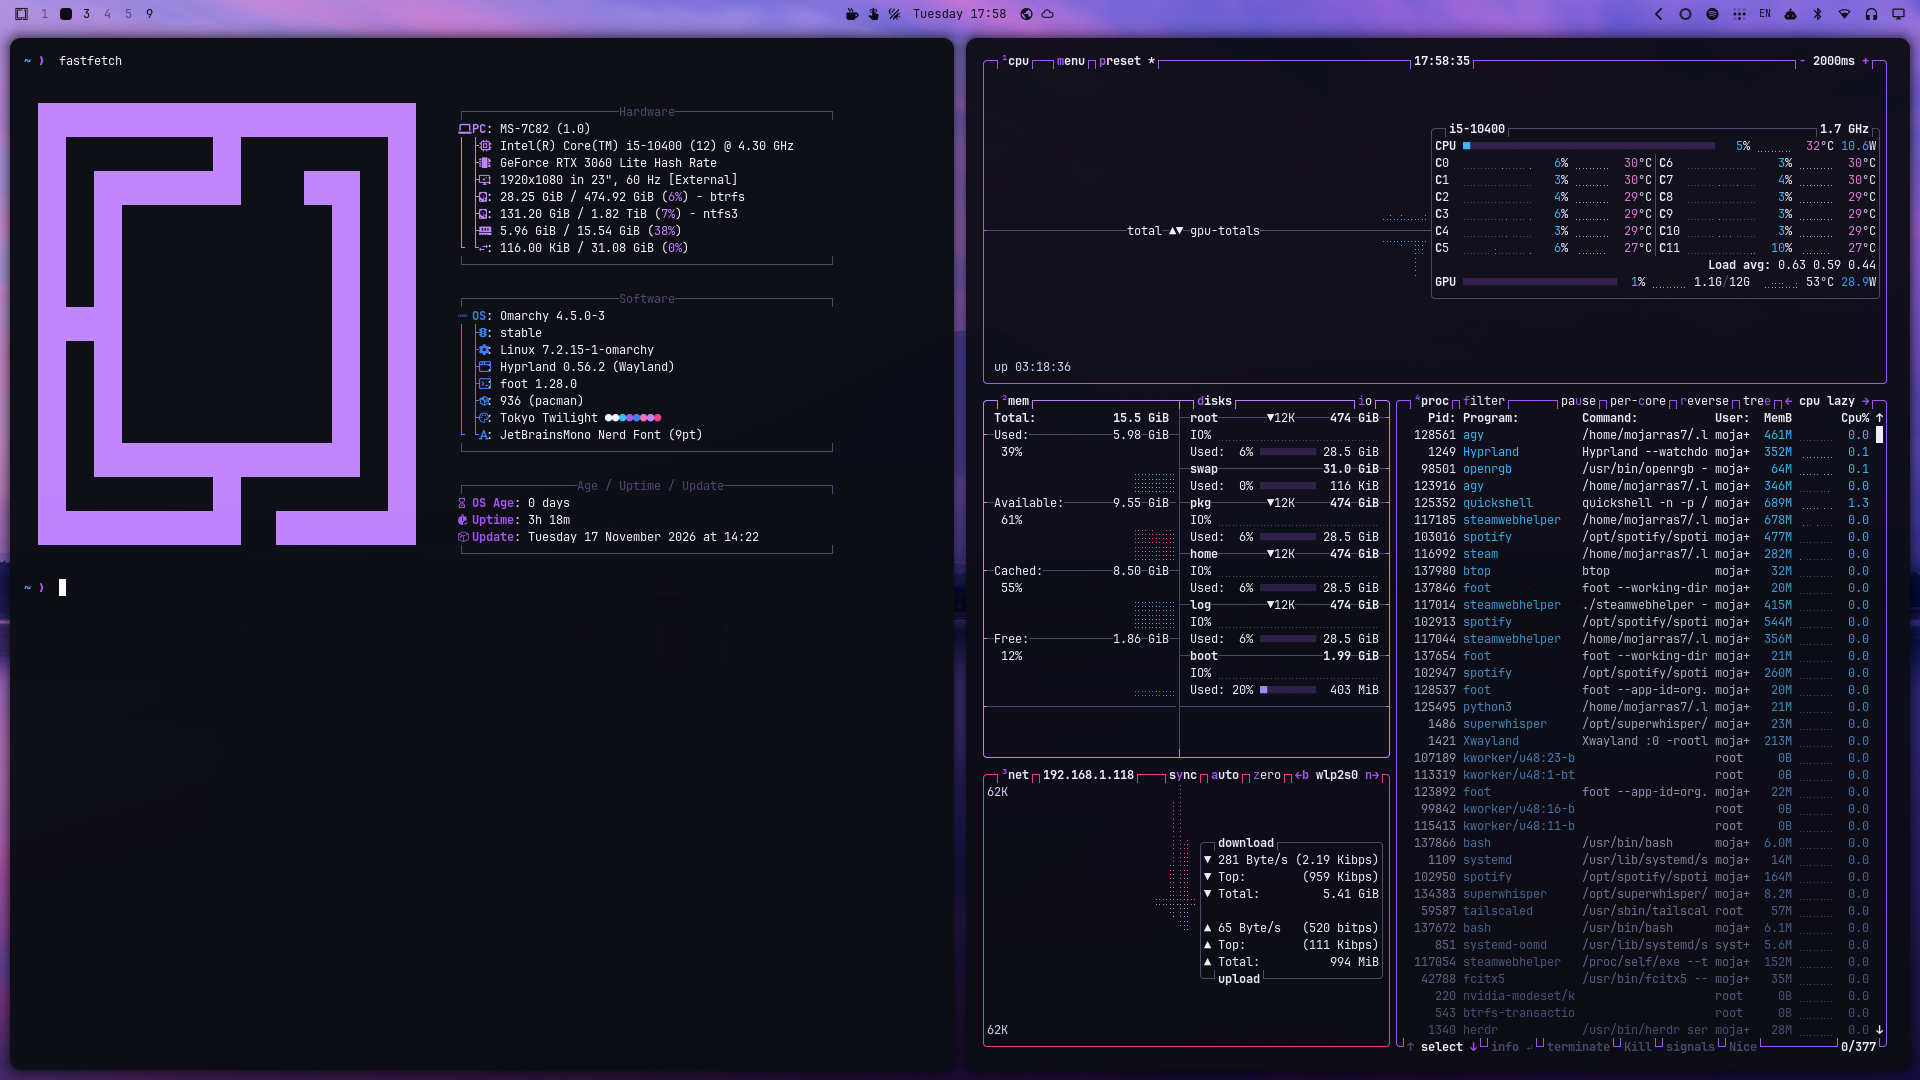
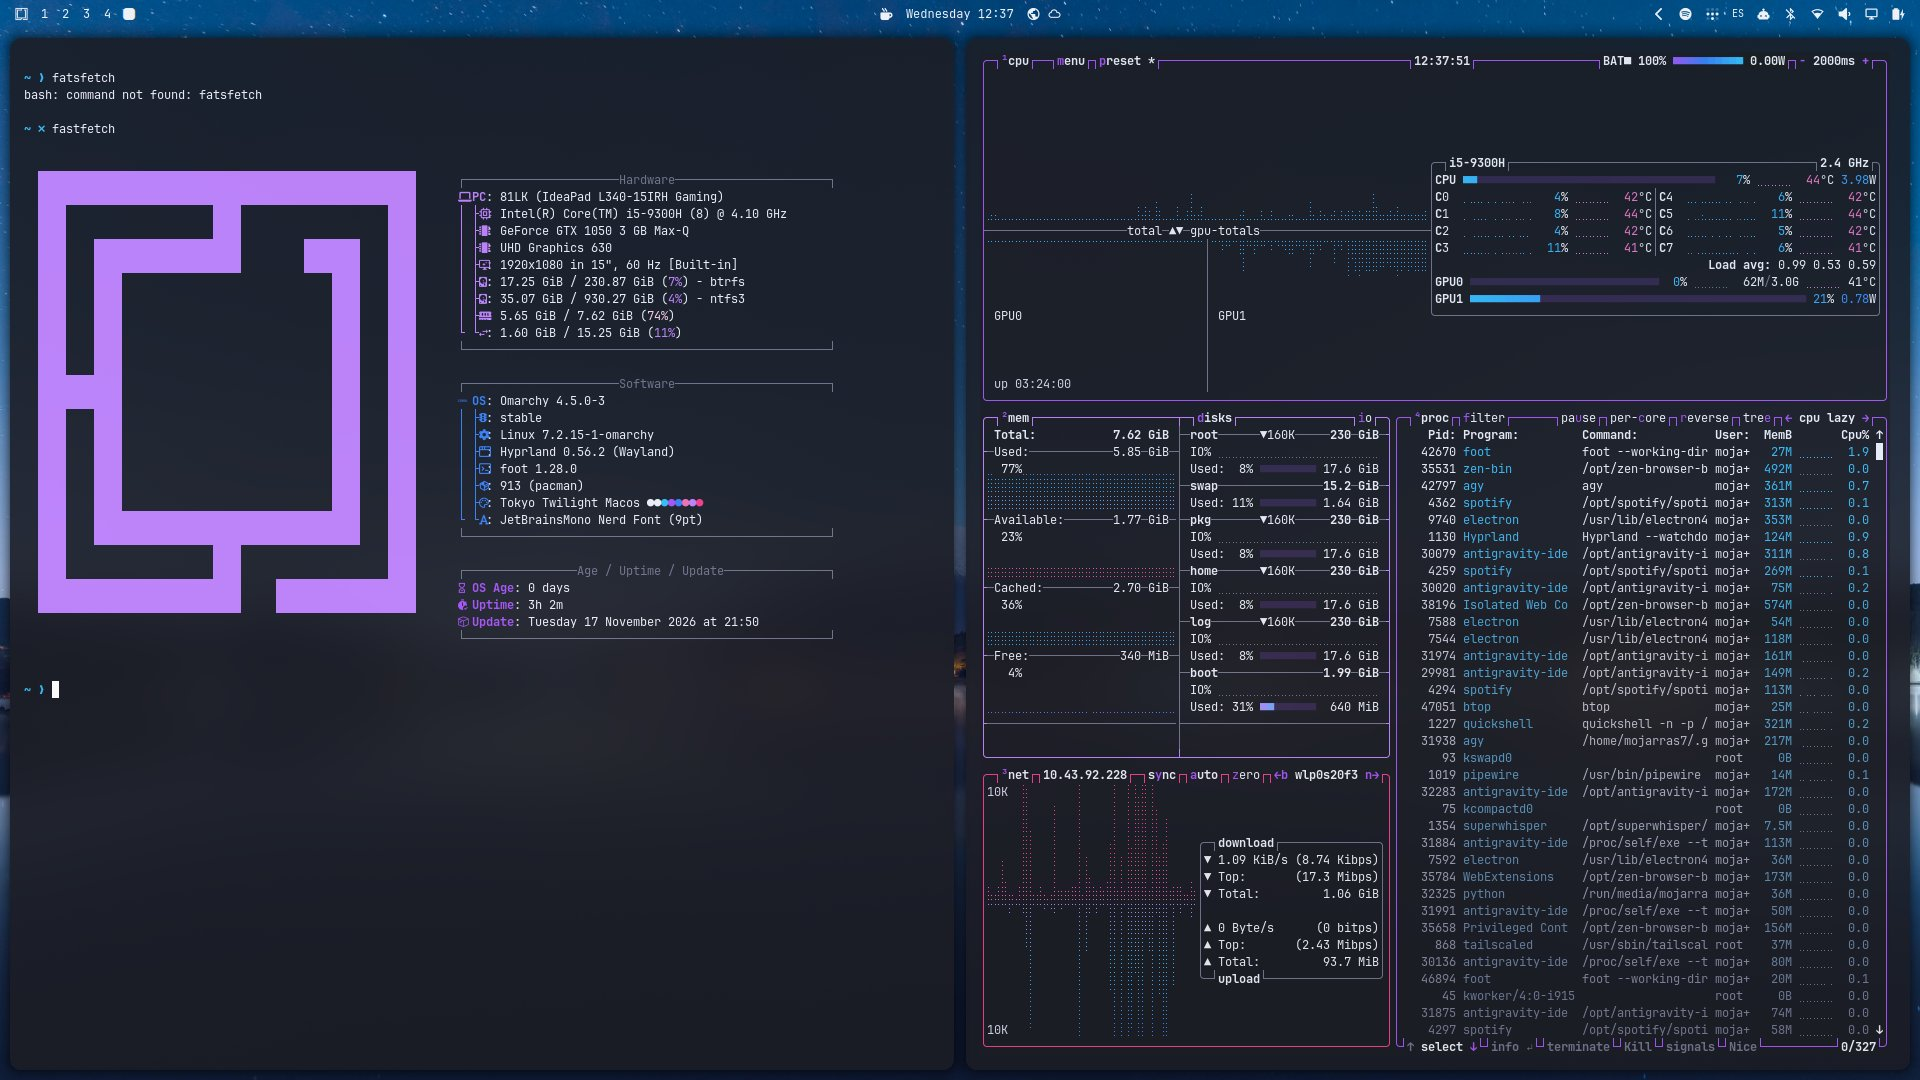
Update palette to macOS twilight slate, remove 6th wallpaper, and update terminal screenshot

Changed region(s): [[0.0, 0.0, 1.0, 1.0], [0.625, 0.1833, 0.75, 0.2444], [0.5938, 0.1833, 0.625, 0.2139]]

diff --git a/README.md b/README.md
@@ -8,11 +8,11 @@ A sleek, macOS-inspired dark theme for [Omarchy Linux](https://omarchy.org/) fea
 
 ## Highlights
 
-- 🎨 **Tokyo Twilight Palette**: Built on deep obsidian night (`#0c0d14`), vibrant Tokyo neon violet (`#a855f7`), electric cyber blue (`#3b82f6`), cyber pink (`#f43f8e`), and crisp white (`#f5f6ff`).
+- 🎨 **Tokyo Twilight Palette**: Built on cool macOS twilight slate (`#1a1c26`), vibrant Tokyo neon violet (`#a855f7`), electric cyber blue (`#3b82f6`), cyber pink (`#f43f8e`), and crisp white (`#eef0f8`).
 - 🪟 **Borderless & Clean**: Zero window borders and smooth 12px macOS-style rounded corners for a clean, distraction-free desktop.
 - ⚡ **Minimalist Terminal**: Refined ANSI color palette strictly tuned to purples, blues, whites, and pinks.
 - 🚀 **Zero-Border Menus**: Translucent, blurred quick-menu (<kbd>Super</kbd> + <kbd>Space</kbd>) and popups with 0 borders.
-- 🖼 **4K / 5K / 6K Wallpaper Collection**: 6 ultra-high-resolution cinematic landscapes optimized for high-DPI displays.
+- 🖼 **4K / 5K / 6K Wallpaper Collection**: 5 ultra-high-resolution cinematic landscapes optimized for high-DPI displays.
 
 ---
 
@@ -93,14 +93,14 @@ hyprctl reload
 
 | Swatch | Color Name | Hex Code | Purpose |
 |:---:|:---|:---:|:---|
-| ⬛ | **Obsidian Base** | `#0c0d14` | Background / Terminal surface |
+| ⬛ | **Twilight Slate** | `#1a1c26` | Background / Terminal surface |
 | 🟪 | **Tokyo Purple** | `#a855f7` | Primary Accent / Menu focus / Active indicators |
 | 🟦 | **Cyber Blue** | `#3b82f6` | Secondary Accent / Highlights |
 | 🩵 | **Ice Blue** | `#38bdf8` | Terminal Cyan / Links |
 | 🌸 | **Neon Pink** | `#f43f8e` | Terminal Red / Alerts / Status |
 | 🌺 | **Pastel Pink** | `#f472b6` | Terminal Yellow / Warm accents |
 | 🪻 | **Lilac Lavender** | `#c084fc` | Terminal Green / Soft violet |
-| ⬜ | **Clean White** | `#f5f6ff` | Foreground Text |
+| ⬜ | **Clean White** | `#eef0f8` | Foreground Text |
 
 ---
 
@@ -113,7 +113,6 @@ hyprctl reload
 | `3-rainbow-bridge-5k.jpg` | 5120 × 2160 (5K) | Illuminated Rainbow Bridge and Tokyo Bay at dusk |
 | `4-tokyo-tower-stars-4k.jpg` | 3840 × 2160 (4K) | Tokyo Tower beneath a starry twilight sky and Milky Way |
 | `5-fuji-starry-lake-6k.jpg` | 6144 × 3456 (6K) | Mount Fuji starry night reflection over Lake Yamanaka |
-| `6-tokyo-cosmic-twilight-4k.jpg` | 3840 × 2160 (4K) | Tokyo cosmic nebula artwork with neon violet twilight hues |
 
 ---
 
